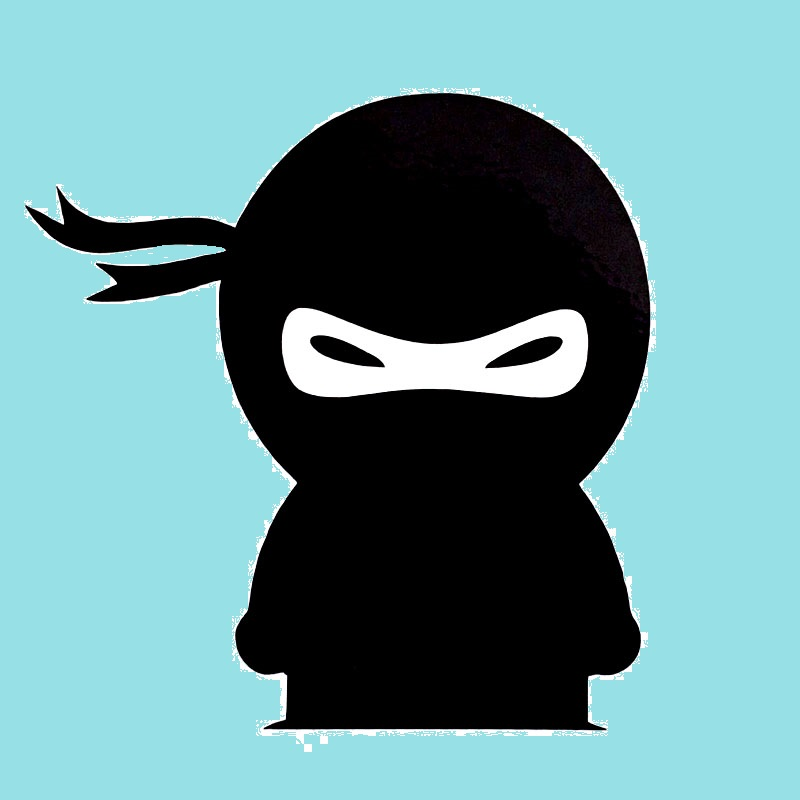
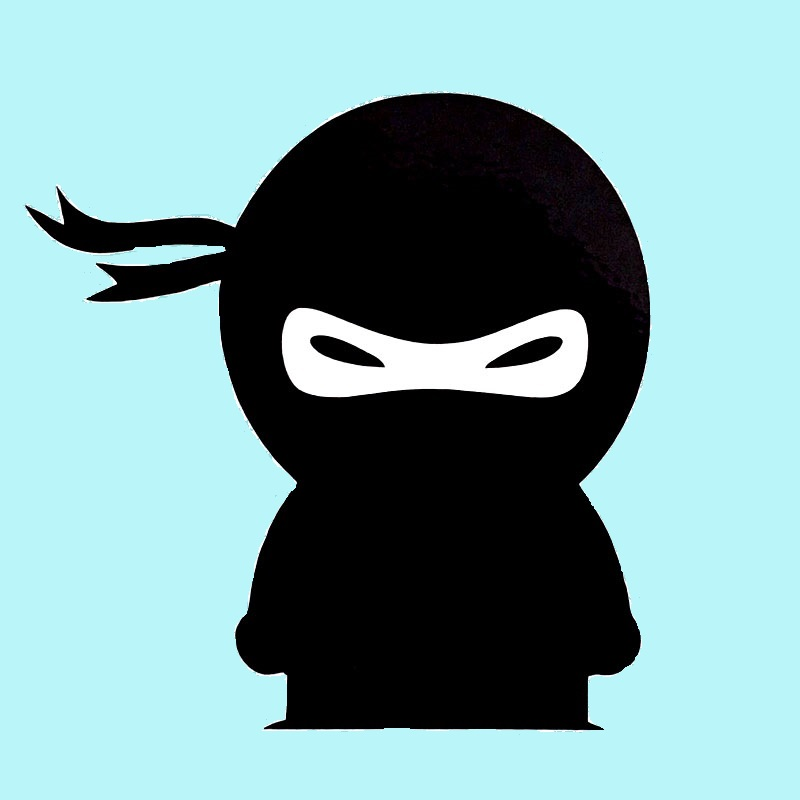
images shuffle but score starts at one

diff --git a/clickapp/src/comp/Images.js b/clickapp/src/comp/Images.js
@@ -3,13 +3,51 @@ import ImagesUrl from '../ImagesUrl.json'
 
 class Images extends Component {
 
+    state = {
+        list: [],
+        correctGuess: []
+    }
+
+    shuffle = a => {
+        for (let i = a.length - 1; i > 0; i--) {
+            const j = Math.floor(Math.random() * (i + 1));
+            [a[i], a[j]] = [a[j], a[i]];
+        }
+        return a;
+    }
+
+    newCards = (id) => {
+        var newarr = this.shuffle(ImagesUrl)
+        let run = true;
+        let arr = this.state.correctGuess;
+        for (let v in this.state.correctGuess){
+            if (this.state.correctGuess[v] === id){
+                run = false
+            }
+        }
+        console.log(arr.length)
+        console.log(run)
+        console.log(this.state.correctGuess)
+        this.setState({list: newarr})
+
+        if (run){
+            arr.push(id);
+            this.setState({correctGuess: arr})
+            this.props.handleRes(true)
+        } else {
+            this.props.handleRes(false)
+        }
+    }
+
     renderImages = () => {
-        var random = [];
-        return ImagesUrl.map( ({url, id}) => <img key={id} src={url} alt="Icon" /> )
+        return this.state.list.map( ({id, url}) => <img key={id} onClick={ this.newCards.bind(this, id) } src={url} alt="Some Icon" /> )
+    }
+
+    componentDidMount() {
+        this.newCards()
     }
 
     render() {
-        console.log(typeof ImagesUrl[0].url)
         return (
             <div className='images'>
                 {this.renderImages()}

diff --git a/clickapp/src/App.js b/clickapp/src/App.js
@@ -10,18 +10,31 @@ class App extends React.Component {
     super(props)
 
     this.state = {
-      score: 0
+      score: 0,
+      topScore: 0
+    }
+  }
+
+  updateState = run => {
+    console.log(run);
+    if (run){
+      console.log("top part")
+      var temp = this.state.score + 1;
+      this.setState({score: temp})
+    } else {
+      console.log("bottom part")
+      this.setState({score: 0})
     }
   }
 
   render() {
     return (
       <div id='header' className='container-fluid'>
-        <Header score={this.state.score} />
+        <Header score={this.state.score} topScore={this.state.topScore} />
         <hr />
         <Describe />
         <hr />
-        <Images />
+        <Images handleRes={this.updateState} />
       </div> // container ends
     )
   }

diff --git a/clickapp/src/App.css b/clickapp/src/App.css
@@ -3,10 +3,6 @@ body, html {
   padding: 0;
   width: 100%;
   height: 100vh;
-  background-color: lightgray;
-}
-
-#header {
   background-color: rgb(186, 245, 250);
 }
 
@@ -17,12 +13,12 @@ body, html {
 img {
   width: 200px;
   border: black solid 1px;
-  margin-right: 10px;
+  margin: 10px;
 }
 
 img:hover {
   border: lightcoral solid 1px;
-  width:  205px;
+  box-shadow: 1px 1px
 }
 
 .center-block {

diff --git a/clickapp/src/comp/Header.js b/clickapp/src/comp/Header.js
@@ -10,7 +10,7 @@ export class Header extends Component {
                 </div>
 
                 <div className='col-md-6'>
-                    <h2 className='text-center'>Score: {this.props.score} | High Score: </h2>
+                    <h2 className='text-center'>Score: {this.props.score} | High Score: {this.props.topScore} </h2>
                 </div>
 
             </div>
